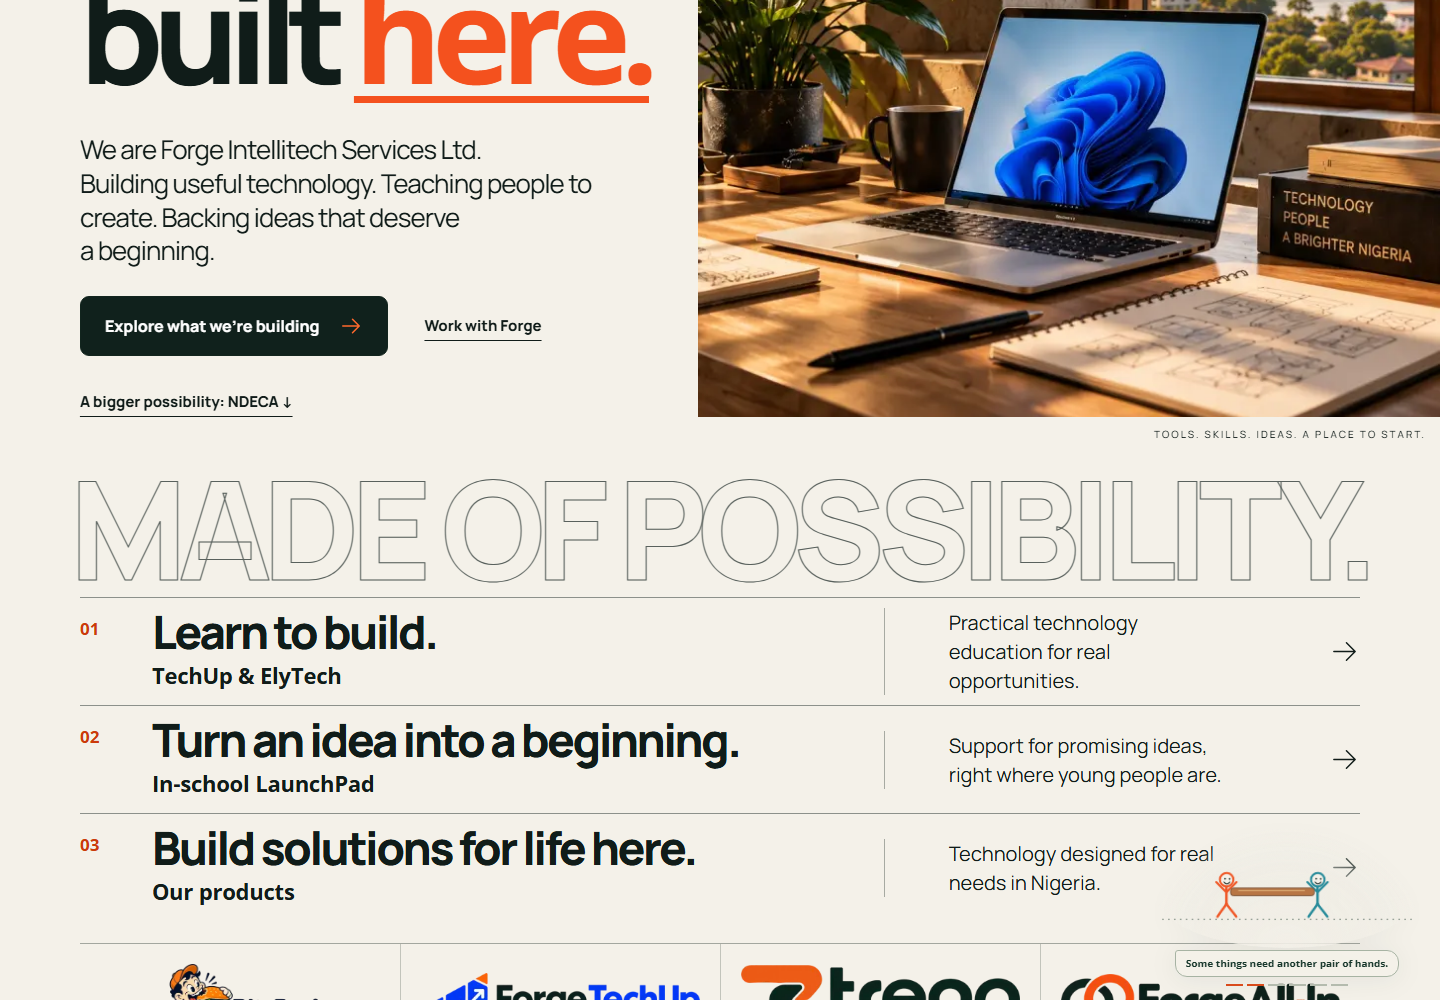
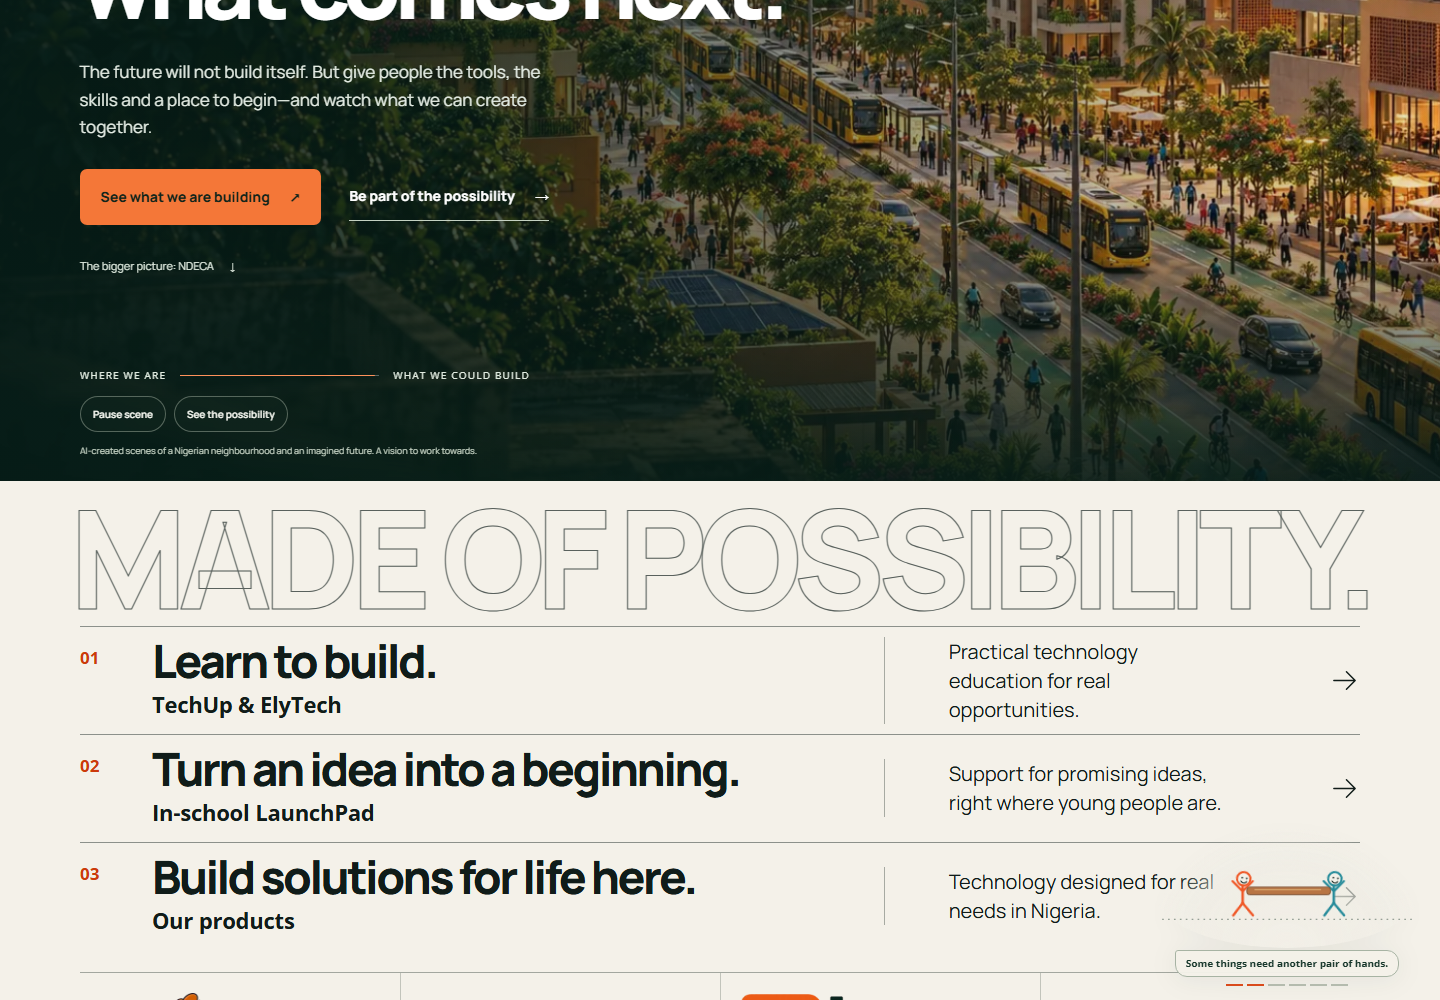
Bring Nigeria's possibilities to life in a transforming landscape hero

diff --git a/components/home/LivingHero.module.css b/components/home/LivingHero.module.css
@@ -1,0 +1,72 @@
+.hero { --cycle:36s; position:relative; isolation:isolate; overflow:hidden; background:#112820; color:#fff; min-height:800px; min-height:max(800px,calc(100svh - 100px)); display:flex; flex-direction:column; justify-content:space-between; font-family:"Manrope Variable",sans-serif; }
+.landscape,.shade { position:absolute; inset:0; z-index:-1; }
+.landscape img { object-fit:cover; object-position:60% 50%; animation:drift var(--cycle) ease-in-out infinite; }
+.landscape .possibility { animation:reveal var(--cycle) ease-in-out infinite,drift var(--cycle) ease-in-out infinite; clip-path:inset(0 100% 0 0); }
+.shade { background:linear-gradient(90deg,#061c17ee 0%,#071e17c9 28%,#071e1766 58%,#071e170c 100%),linear-gradient(0deg,#071b17e8 0%,transparent 32%,#071b1730 100%); }
+.copy { padding:58px max(28px,5.55vw) 32px; max-width:1000px; }
+.hero .eyebrow { font-size:10px; letter-spacing:.21em; text-transform:uppercase; display:flex; align-items:center; gap:10px; color:#d7e7db; margin-bottom:28px; }
+.eyebrow span { width:6px; height:6px; background:#ff8245; border-radius:50%; box-shadow:0 0 16px #ff8245; }
+.hero h1 { color:#fff; font-size:clamp(40px,5.1vw,78px); line-height:1.02; letter-spacing:-.06em; font-weight:650; max-width:800px; }
+.hero .answer { font-size:clamp(49px,6.4vw,96px); color:#fff; line-height:.99; letter-spacing:-.065em; font-weight:800; margin-top:16px; }
+.answer em { font-style:normal; color:#ff844a; }
+.hero .lead { max-width:500px; color:#e4ece4; font-size:17px; line-height:1.6; margin-top:28px; }
+.actions { display:flex; align-items:center; gap:22px 28px; flex-wrap:wrap; margin-top:30px; }
+.primary,.secondary { min-height:48px; font-size:14px; font-weight:750; display:inline-flex; align-items:center; justify-content:space-between; gap:20px; }
+.primary { border-radius:7px; background:#f47738; color:#11251c!important; padding:16px 21px; transition:background .2s,transform .2s; }
+.primary:hover { background:#ff9c67; transform:translateY(-2px); }
+.secondary { color:#fff!important; border-bottom:1px solid #c4d1c2; }
+.ndeca { display:inline-flex; gap:16px; margin-top:24px; font-size:11px; color:#dce7dc!important; padding:8px 0; }
+.bottom { padding:10px max(28px,5.55vw) 24px; display:grid; grid-template-columns:1fr; gap:12px 30px; }
+.timeline { display:flex; align-items:center; gap:14px; max-width:450px; font-size:10px; text-transform:uppercase; letter-spacing:.12em; color:#e2ece1; }
+.timeline i { position:relative; height:1px; background:#ffffff50; flex:1; overflow:hidden; min-width:30px; }
+.timeline i::after { content:""; position:absolute; inset:0; background:#ff925b; transform:scaleX(0); transform-origin:left; animation:progress var(--cycle) ease-in-out infinite; }
+.controls { display:flex; align-items:center; gap:8px; flex-wrap:wrap; }
+.controls button { border:1px solid #d8e4d05c; background:#10251e88; color:#f5f7f0; border-radius:20px; min-height:36px; padding:8px 12px; font:600 10px "Manrope Variable",sans-serif; cursor:pointer; }
+.hero .disclosure { grid-column:1/-1; font-size:9px; color:#c8d5c6; max-width:600px; line-height:1.5; }
+.mobileBreak { display:none; }
+.sunlight { position:absolute; width:40%; height:80%; top:-20%; right:3%; background:radial-gradient(ellipse,#ffde9b24,transparent 65%); animation:light var(--cycle) ease-in-out infinite; pointer-events:none; }
+.birds { position:absolute; width:130px; top:21%; right:15%; color:#193d32; animation:flight 26s linear infinite; opacity:.7; }
+.hero[data-paused=true] .landscape *, .hero[data-paused=true] .timeline i::after { animation-play-state:paused!important; }
+.hero[data-scene=today] .landscape img, .hero[data-scene=possibility] .landscape img { animation:none; transform:scale(1.03); }
+.hero[data-scene=today] .possibility { animation:none; clip-path:inset(0 100% 0 0); }
+.hero[data-scene=possibility] .possibility { animation:none; clip-path:inset(0); }
+.hero[data-scene=possibility] .timeline i::after { animation:none; transform:scaleX(1); }
+.hero[data-scene=today] .timeline i::after { animation:none; transform:scaleX(0); }
+@media(prefers-reduced-motion:no-preference) {
+ .copy .eyebrow { animation:words .75s .1s both; }
+ .copy h1 { animation:words .9s .3s both; }
+ .copy .answer { animation:words 1.1s 2.8s both; }
+ .copy .lead { animation:words .8s .8s both; }
+ .copy .actions, .copy .ndeca { animation:words .8s 1s both; }
+}
+@keyframes words { from{opacity:0;transform:translateY(16px)} to{opacity:1;transform:translateY(0)} }
+@keyframes drift { 0%,100%{transform:scale(1.03) translateX(0)} 50%{transform:scale(1.08) translateX(-.6%)} }
+@keyframes reveal { 0%,10%,100%{clip-path:inset(0 100% 0 0)} 46%,77%{clip-path:inset(0)} }
+@keyframes progress { 0%,10%,100%{transform:scaleX(0)} 46%,77%{transform:scaleX(1)} }
+@keyframes light { 0%,100%{opacity:.4} 55%{opacity:1} }
+@keyframes flight { from{transform:translateX(200px) translateY(15px)} to{transform:translateX(-420px) translateY(-30px)} }
+@media(max-width:700px) {
+ .hero { min-height:880px; min-height:max(880px,calc(100svh - 80px)); }
+ .copy { padding:42px 24px 26px; }
+ .hero .eyebrow { font-size:8px; letter-spacing:.16em; margin-bottom:27px; }
+ .hero h1 { font-size:clamp(37px,9.5vw,60px); line-height:1.06; }
+ .hero .answer { font-size:clamp(48px,12.2vw,76px); margin-top:22px; }
+ .hero .lead { font-size:15px; max-width:380px; margin-top:26px; }
+ .desktopBreak { display:none; } .mobileBreak { display:initial; }
+ .shade { background:linear-gradient(90deg,#061c17e8,#071e1780),linear-gradient(0deg,#071b17f5 0%,transparent 58%); }
+ .landscape img { object-position:68% 50%; }
+ .actions { gap:13px; flex-direction:column; align-items:flex-start; margin-top:26px; }
+ .primary,.secondary { font-size:13px; }
+ .bottom { padding:0 24px 120px; grid-template-columns:1fr; gap:15px; }
+ .timeline { max-width:100%; font-size:8px; }
+ .controls { max-width:155px; flex-direction:column; align-items:flex-start; }
+ .hero .disclosure { max-width:235px; }
+ .birds { top:11%; right:-10%; }
+}
+@media(prefers-reduced-motion:reduce) {
+ .hero *, .hero *::after { animation:none!important; transition:none!important; }
+ .landscape .possibility { clip-path:inset(0); }
+ .hero[data-scene=today] .possibility { clip-path:inset(0 100% 0 0); }
+ .timeline i::after { transform:scaleX(1); }
+ .birds { display:none; }
+}

diff --git a/components/home/LivingHero.tsx b/components/home/LivingHero.tsx
@@ -1,0 +1,40 @@
+"use client";
+
+import Image from "next/image";
+import Link from "next/link";
+import { useState } from "react";
+import styles from "./LivingHero.module.css";
+
+export default function LivingHero() {
+  const [paused,setPaused]=useState(false);
+  const [scene,setScene]=useState<'auto'|'today'|'possibility'>('auto');
+  return <section id="company" className={styles.hero} data-paused={paused} data-scene={scene} aria-labelledby="home-title">
+    <div className={styles.landscape} aria-hidden="true">
+      <Image className={styles.today} src="/images/home/nigeria-today.webp" alt="" fill priority sizes="100vw"/>
+      <Image className={styles.possibility} src="/images/home/nigeria-possibility.webp" alt="" fill sizes="100vw"/>
+      <div className={styles.sunlight}/>
+      <svg className={styles.birds} viewBox="0 0 140 40" fill="none"><path d="M10 18q8-8 16 0 8-8 16 0M60 29q6-6 12 0 6-6 12 0M100 10q6-6 12 0 6-6 12 0" stroke="currentColor" strokeWidth="1.4"/></svg>
+    </div>
+    <div className={styles.shade}/>
+    <div className={styles.copy}>
+      <p className={styles.eyebrow}><span/> Nigeria is not a finished story.</p>
+      <h1 id="home-title">Why should this<br className={styles.desktopBreak}/> be all<br className={styles.mobileBreak}/> we become?</h1>
+      <p className={styles.answer}>We can <em>forge</em><br/>what comes next.</p>
+      <p className={styles.lead}>The future will not build itself. But give people the tools, the skills and a place to begin—and watch what we can create together.</p>
+      <div className={styles.actions}>
+        <a href="#work" className={styles.primary}>See what we are building <span aria-hidden="true">↗</span></a>
+        <Link href="/endless-possibilities" className={styles.secondary}>Be part of the possibility <span aria-hidden="true">→</span></Link>
+      </div>
+      <a className={styles.ndeca} href="#ndeca">The bigger picture: NDECA <span aria-hidden="true">↓</span></a>
+    </div>
+    <div className={styles.bottom}>
+      <div className={styles.timeline} aria-hidden="true"><span>Where we are</span><i/><span>What we could build</span></div>
+      <div className={styles.controls}>
+        <button onClick={()=>{if(paused){setScene('auto');setPaused(false);}else setPaused(true);}} aria-pressed={paused} aria-label={paused?'Play the landscape animation':'Pause the landscape animation'}>{paused?'Play scene':'Pause scene'}</button>
+        <button onClick={()=>{setScene(value=>value==='possibility'?'today':'possibility');setPaused(true);}}>{scene==='possibility'?'See today':'See the possibility'}</button>
+        {scene!=='auto' && <button onClick={()=>{setScene('auto');setPaused(false);}}>Let it unfold</button>}
+      </div>
+      <p className={styles.disclosure}>AI-created scenes of a Nigerian neighbourhood and an imagined future. A vision to work towards.</p>
+    </div>
+  </section>;
+}

diff --git a/app/HomePageClient.tsx b/app/HomePageClient.tsx
@@ -1,6 +1,7 @@
 import Image from "next/image";
 import Link from "next/link";
 import { ArrowRight } from "@phosphor-icons/react/dist/ssr";
+import LivingHero from "../components/home/LivingHero";
 import ProductRow from "../components/home/ProductRow";
 import styles from "../components/home/Editorial.module.css";
 
@@ -41,51 +42,7 @@ const stories = [
 export default function HomePageClient() {
   return (
     <div className={styles.page} id="home-content" tabIndex={-1}>
-      <section
-        id="company"
-        className={styles.hero}
-        aria-labelledby="home-title"
-      >
-        <div className={styles.heroCopy}>
-          <h1 id="home-title">
-            The next
-            <br />
-            big thing
-            <br />
-            can be
-            <br />
-            built <span>here.</span>
-          </h1>
-          <p>
-            We are Forge Intellitech Services Ltd.
-            <br />
-            Building useful technology. Teaching people to create. Backing ideas
-            that deserve
-            <br className={styles.desktopBreak} /> a beginning.
-          </p>
-          <div className={styles.actions}>
-            <a href="#work" className={styles.button}>
-              Explore what we’re building <ArrowRight size={24} aria-hidden />
-            </a>
-            <Link href="/join" className={styles.textLink}>
-              Work with Forge
-            </Link>
-            <a href="#ndeca" className={styles.textLink}>A bigger possibility: NDECA ↓</a>
-          </div>
-        </div>
-        <figure className={styles.heroPicture}>
-          <div className={styles.heroImage}>
-            <Image
-              src="/images/home/studio-beginning.webp"
-              alt="An illustrative Nigerian workspace with a laptop, ideas on paper and a view towards the city"
-              fill
-              priority
-              sizes="(max-width: 700px) 100vw, 52vw"
-            />
-          </div>
-          <figcaption>Tools. Skills. Ideas. A place to start.</figcaption>
-        </figure>
-      </section>
+      <LivingHero />
       <p className={styles.manifesto}>Made of possibility.</p>
       <section id="work" className={styles.work} aria-label="Our work">
         {work.map((item, index) => (

diff --git a/components/PageMotion.tsx b/components/PageMotion.tsx
@@ -1,0 +1,22 @@
+"use client";
+import { useEffect } from "react";
+import { usePathname } from "next/navigation";
+import styles from "./PageMotion.module.css";
+
+export default function PageMotion() {
+  const pathname=usePathname();
+  useEffect(()=>{
+    const main=document.querySelector('main');
+    if(!main || matchMedia('(prefers-reduced-motion: reduce)').matches || !('IntersectionObserver' in window)) return;
+    main.classList.add(styles.motionRoot);
+    const sections=[...main.querySelectorAll('section')].filter(section=>section.id!=='company' && section.getBoundingClientRect().top>innerHeight*.95 && !section.parentElement?.closest('section'));
+    const observer=new IntersectionObserver(entries=>entries.forEach(entry=>{
+      if(entry.isIntersecting){entry.target.setAttribute('data-reveal','seen');observer.unobserve(entry.target);}
+    }),{threshold:.06,rootMargin:'0px 0px 40px 0px'});
+    sections.forEach(section=>{section.setAttribute('data-reveal','waiting');observer.observe(section);});
+    const focus=(event:FocusEvent)=>{if(event.target instanceof Element)event.target.closest('[data-reveal=waiting]')?.setAttribute('data-reveal','seen');};
+    main.addEventListener('focusin',focus);
+    return ()=>{observer.disconnect();main.removeEventListener('focusin',focus);main.classList.remove(styles.motionRoot);sections.forEach(section=>section.removeAttribute('data-reveal'));};
+  },[pathname]);
+  return null;
+}

diff --git a/app/page.tsx b/app/page.tsx
@@ -23,15 +23,15 @@ export const metadata: Metadata = {
     "EdTech startup",
   ],
   openGraph: {
-    title: "The next big thing can be built here | Forge Intellitech",
+    title: "We can forge what comes next | Forge Intellitech",
     description:
       "We build technology solutions rooted in African realities. Through education and innovation, we create products that understand and serve our continent.",
     url: "https://forgeintellitech.com",
     type: "website",
     images: [
       {
-        url: "/images/home/studio-beginning.webp",
-        alt: "A place to start creating — Forge Intellitech",
+        url: "/images/home/nigeria-possibility.webp",
+        alt: "An imagined future of a Nigerian neighbourhood — a vision to work towards",
       },
     ],
   },
@@ -39,7 +39,7 @@ export const metadata: Metadata = {
     card: "summary_large_image",
     title: "Forge Intellitech | Technology Built for Africa",
     description: "We build technology solutions rooted in African realities.",
-    images: ["/images/home/studio-beginning.webp"],
+    images: ["/images/home/nigeria-possibility.webp"],
   },
   alternates: {
     canonical: "https://forgeintellitech.com",

diff --git a/components/story/ForgeJourney.module.css b/components/story/ForgeJourney.module.css
@@ -56,5 +56,5 @@
 @keyframes build { from{opacity:0;transform:scaleY(.1)} to{opacity:1;transform:scaleY(1)} }
 @keyframes drive { 0%{transform:translateX(-130px)} 35%,70%{transform:translateX(0)} 100%{transform:translateX(125px)} }
 @keyframes home { 0%,10%{transform:translateX(-130px)} 65%,100%{transform:translateX(65px)} }
-@media(max-width:700px) { .journey { width:210px; right:10px; bottom:10px; } .caption { font-size:9px; } .topline { opacity:1; } .topline span { font-size:8px; } .dialog { padding:42px 22px 24px; } }
+@media(max-width:700px) { .journey { width:210px; right:10px; bottom:10px; } .caption { font-size:9px; } .topline { opacity:1; } .topline span { display:none; } .dialog { padding:42px 22px 24px; } }
 @media(prefers-reduced-motion:reduce) { .journey *, .dialog * { animation:none!important; transition:none!important; } .eyes { transform:none; } .topline { opacity:1; } }

diff --git a/components/SiteFrame.tsx b/components/SiteFrame.tsx
@@ -9,6 +9,7 @@ import WatchForge from "./WatchForge";
 import HomeHeader from "./home/HomeHeader";
 import HomeFooter from "./home/HomeFooter";
 import ForgeJourney from "./story/ForgeJourney";
+import PageMotion from "./PageMotion";
 
 export default function SiteFrame({ children }: { children: React.ReactNode }) {
   const pathname = usePathname();
@@ -23,6 +24,7 @@ export default function SiteFrame({ children }: { children: React.ReactNode }) {
       {homepage && <WatchForge />}
       {homepage ? <HomeFooter /> : <Footer />}
       {homepage && <ForgeJourney />}
+      {homepage && <PageMotion />}
       <CookieConsent />
     </>
   );

diff --git a/components/PageMotion.module.css b/components/PageMotion.module.css
@@ -1,0 +1,4 @@
+.motionRoot [data-reveal] { transition:opacity .65s ease,transform .65s cubic-bezier(.2,.7,.3,1); }
+.motionRoot [data-reveal=waiting] { opacity:0; transform:translateY(18px); }
+.motionRoot [data-reveal=seen] { opacity:1; transform:translateY(0); }
+@media(prefers-reduced-motion:reduce) { .motionRoot [data-reveal] { opacity:1; transform:none; transition:none; } }

diff --git a/components/home/Editorial.module.css b/components/home/Editorial.module.css
@@ -221,6 +221,8 @@
 .productRow > button:hover {
   background: #e9e6db;
 }
+.productRow > button img { transition:transform .3s cubic-bezier(.2,.7,.3,1); }
+.productRow > button:hover img, .productRow > button:focus-visible img { transform:translateY(-3px); }
 .productRow > button img {
   width: 100%;
   height: 72px;

diff --git a/docs/redesign/living-hero/prompts.md b/docs/redesign/living-hero/prompts.md
@@ -1,0 +1,9 @@
+# Final generation prompts
+
+## Today — built-in image_gen, new image
+
+Create one cinematic photorealistic ultra-wide 16:9 landscape image for a Nigerian technology company website hero background. A fictional but recognisably contemporary Lagos mainland neighbourhood in Nigeria, observed from a modest elevated rooftop looking down a long diagonal street toward a lagoon skyline. Current-day ordinary built environment: weathered low-rise concrete shops and apartment blocks, a few yellow danfo minibuses, electrical poles, some informal roadside trading, warm textured roofs, sparse roadside trees. Dignified, lively, believable place with potential, not disaster imagery or poverty spectacle. Very small distant people only, all Nigerian; no identifiable children. Warm early morning atmospheric sunlight, deep green shadows, terracotta and ochre details. Right two-thirds are visually rich with the receding avenue and lagoon; left third quieter dark foreground foliage/rooftop shapes suitable for large white headline overlay. Camera fixed, architectural lines sharp, natural lens, realistic street scale. No text, no logos, no flags, no before/after split, no infographic. Beautiful editorial cinema frame, not sci-fi. Output one full-bleed landscape.
+
+## Possibility — built-in image_gen, edit of Today
+
+Edit this exact image into a hopeful, beautiful, plausible future of THE SAME Nigerian Lagos neighbourhood. Preserve the EXACT camera position, framing, horizon, sunlight direction, avenue curve from bottom right to centre distance, lagoon and bridge position, and foreground house/palm/foliage shapes so the two images can be aligned for a website transformation wipe. Show this place transformed by shared public investment, practical technology, care and opportunity: rehabilitated warm ochre and cream mid-rise mixed-use homes with balconies and green roofs, solar panels integrated into roofs, beautiful dense street trees, broad safe sidewalks, contemporary accessible yellow electric buses, protected bike lanes, people enjoying a clean public plaza, a sleek modest electric tram on the same avenue, attractive public school/workshop architecture, clean waterfront gardens and a more coherent prosperous skyline. Retain Nigerian character, local street life, the mosque/community landmarks, warm materials, tropical climate and recognisable urban fabric. No replacement with Dubai, no flying cars, no enormous fantasy towers. Slightly cleaner golden morning air but MATCH original illumination and sky. Keep dark quiet left foreground suitable for white headline text. Any tiny people must be Nigerian, no identifiable children. Photorealistic cinematic architecture, buildable aspirational vision. No text, labels or logos. One full-bleed landscape of identical dimensions and composition.

diff --git a/docs/redesign/living-hero/README.md b/docs/redesign/living-hero/README.md
@@ -1,0 +1,24 @@
+# A Nigeria we can forge
+
+21 October 2026. The founder requested a living wallpaper of contemporary Nigeria becoming a more beautiful Nigeria, a thought-provoking hero message, and additional considered site motion.
+
+## Visual treatment
+
+Two original AI-created landscape images show the same fictional Lagos neighbourhood, with an aligned avenue, lagoon, skyline, foreground house and palm. The future keeps Nigerian urban character, adds green public spaces, rehabilitated homes, accessible transport, cycle lanes and solar roofs. It is a vision to work towards, not a claim about a completed development or documentary photography.
+
+The hero uses a 36-second progressive reveal, gentle camera drift, changing light and small distant birds. The question appears first; the response follows. Pause, today/possibility and autoplay controls allow visitors to choose. Reduced-motion preferences produce a static view and readable text. No video downloads, third-party animation dependency or external media service are used.
+
+Shared page motion reveals sections once as they enter view. Keyboard focus reveals a section immediately. Content stays visible without JavaScript, and reduced-motion CSS removes transitions. Product marks receive a small hover/focus lift; the previously requested individual character-logo animations remain a separate task.
+
+## Assets and generation
+
+Method: built-in image_gen. Optimised with Sharp into project WebP assets:
+
+- `public/images/home/nigeria-today.webp` (1672 × 941)
+- `public/images/home/nigeria-possibility.webp` (1672 × 941)
+
+Original outputs retained in `C:/Users/Forge/.codex/generated_images/01a159da-0d99-7c33-9e71-14a813428102/` as `exec-fd52a90c-2398-4b1d-b6b2-666882c7d777.png` and `exec-4e56c2ce-a220-48cc-9d19-40b0496c38fc.png`.
+
+Prompt set is saved in `prompts.md`. The second image was an edit of the first, preserving its perspective and illumination. No Pinterest or stock imagery was used.
+
+Browser evidence lives in `results.json` and desktop/mobile screenshots. All work remains on the redesign branch; no production deployment is authorised.

diff --git a/design-qa.md b/design-qa.md
@@ -26,3 +26,6 @@ Production build and TypeScript passed. Homepage browser checks passed at 320/39
 
 ## Ambient story replacement
 Replaced the rejected letter widget with an original six-chapter SVG story shared by public pages. Build (`npm run build -- --webpack`) and TypeScript passed; Webpack was used because local Turbopack reported unsupported CPU instructions. Browser suite scripts/verify-forge-story.mjs passed all nine check groups against the production-mode local preview: animation and pointer glances, four responsive widths/full possibility text, six automatic scroll chapters, reverse/pause/resume, optional object-building completion/Escape focus, programme introduction, reduced motion, hide/restore and form focus. Screenshots reviewed at desktop and mobile, including final cast visibility. Evidence in docs/redesign/story/results.json. This replaces the prior hero experiment; product-logo motion and backend activation remain separate. No live deployment.
+
+## Living Nigeria hero
+Replaced the split workspace hero with an original aligned pair of Nigerian landscape illustrations and a 36-second progressive transformation. Question/response copy, camera drift, light and birds, pause/manual/autoplay controls, disclosure and shared section entrances are implemented. Final production build and TypeScript passed. Living-hero browser suite passed image loading, one main/h1, four widths, automatic reveal advancement over time, pause/resume/manual states, NDECA anchor, section reveal, reduced motion and mobile controls. Existing nine-group story suite passed alongside the new hero. Desktop/mobile screenshots reviewed; mobile story label removed to keep the image disclosure clear. Assets and prompts: docs/redesign/living-hero. No live deployment or backend changes.
